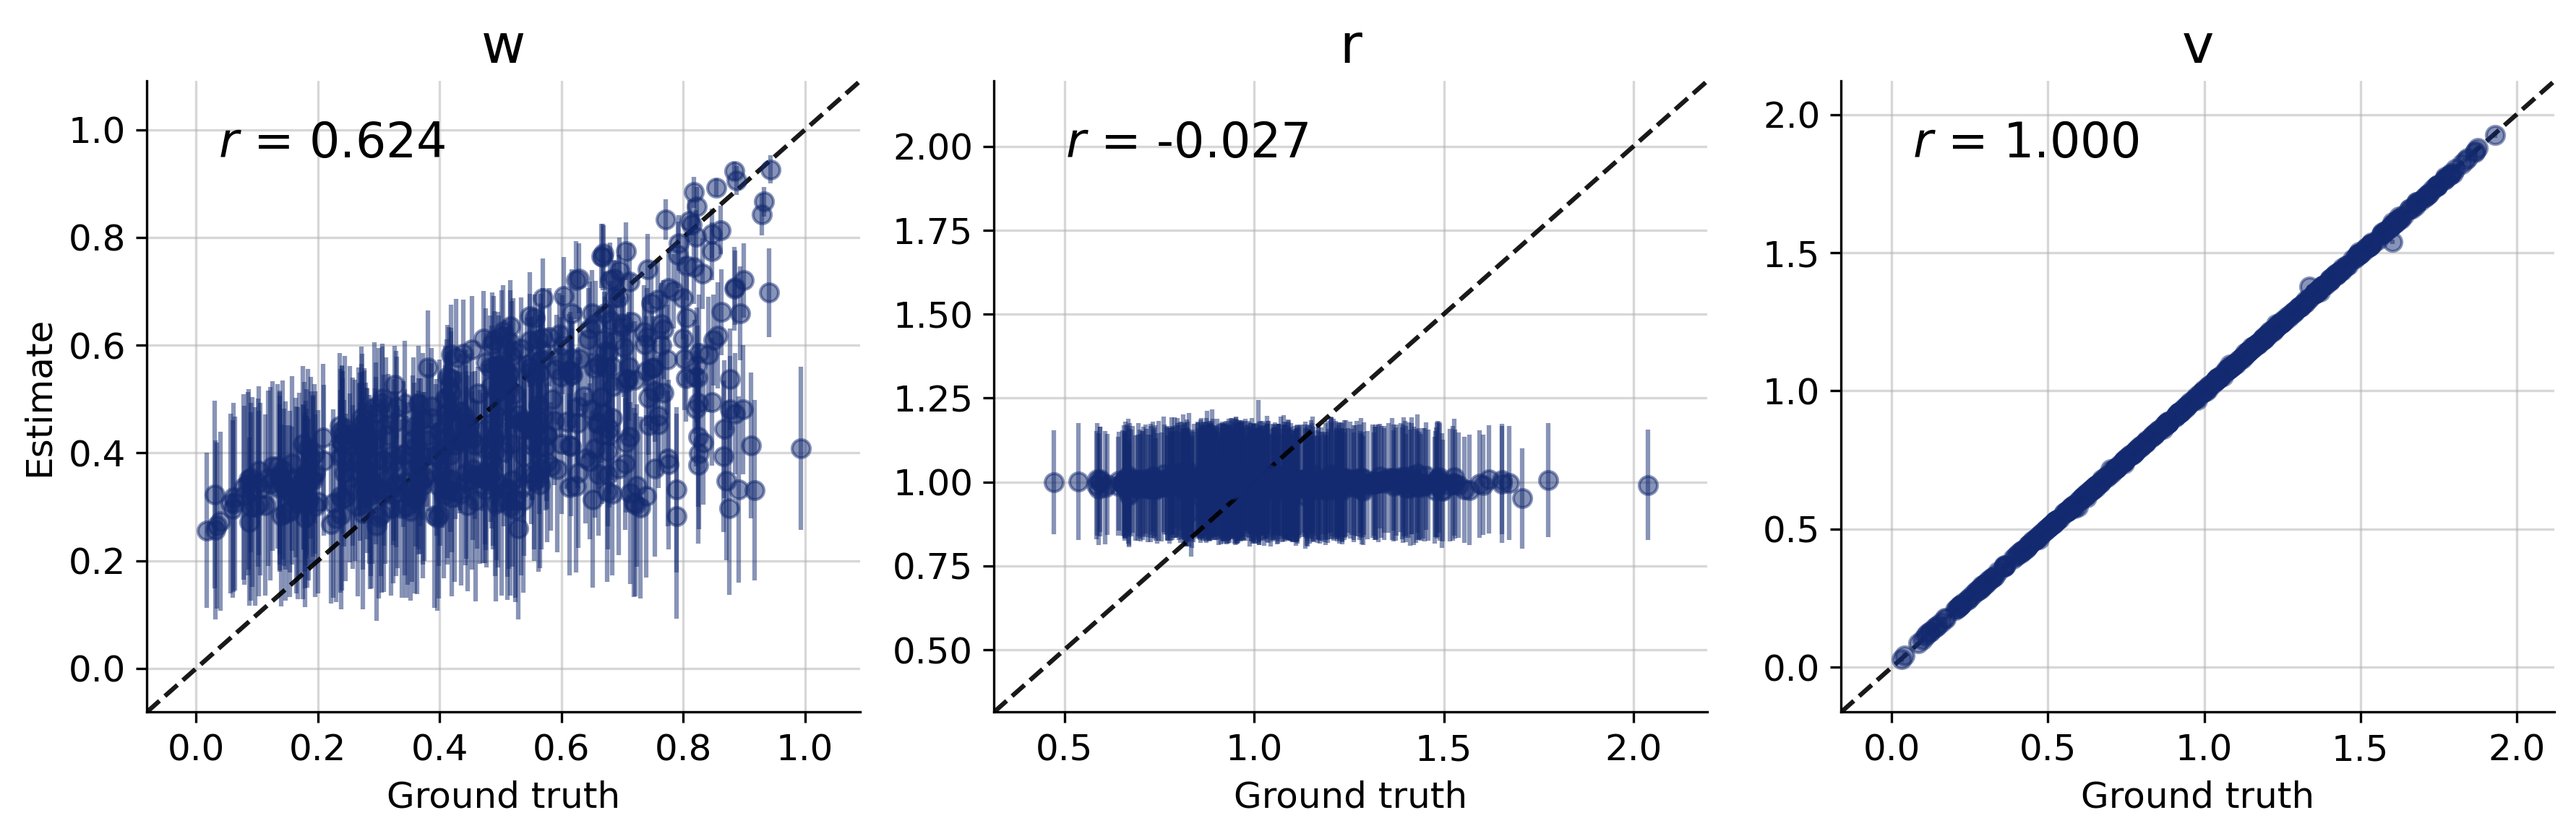
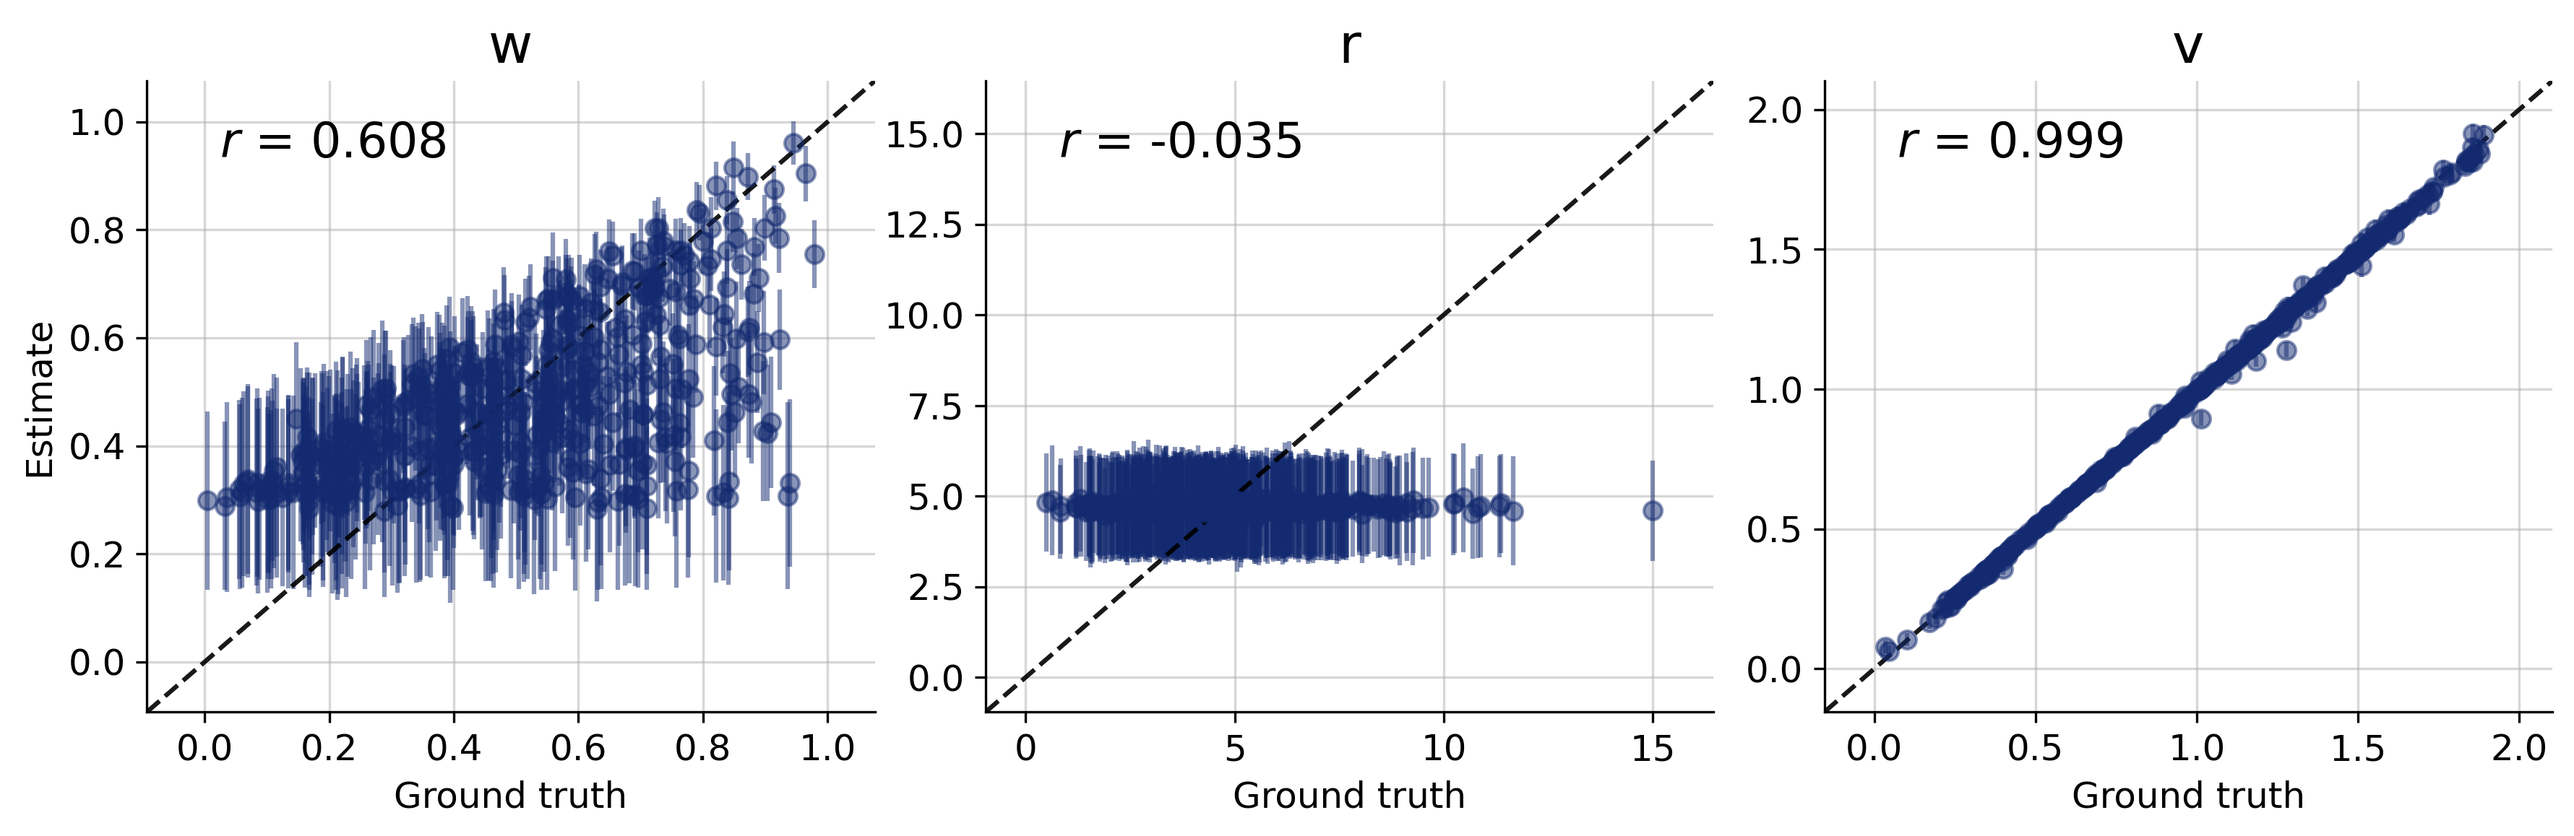
Update results

diff --git a/togetherflow/src/simulator.py b/togetherflow/src/simulator.py
@@ -70,6 +70,9 @@ def simulator_fun(
     positions = np.zeros((num_timesteps, num_agents, 2))
     rotations = np.zeros((num_timesteps, num_agents,))
     neighbors = np.zeros((num_timesteps, num_agents,))
+    distances = np.zeros((num_timesteps, num_agents,))
+    angular_velocities = np.zeros((num_timesteps, num_agents,))
+    neighbor_fluctuations = np.zeros((num_timesteps, num_agents,))
     positions[0] = initial_positions
     rotations[0] = initial_rotations
 
@@ -78,7 +81,7 @@ def simulator_fun(
 
     # Simulation loop
     for t in prange(1, num_timesteps):
-        ps, rs, num_neighbors = combined_influences(
+        ps, rs, num_neighbors, average_dists = combined_influences(
             agent_positions=positions[t - 1],
             agent_rotations=rotations[t - 1],
             beacon_positions=beacon_positions,
@@ -92,14 +95,27 @@ def simulator_fun(
         # Store positions and orientations for each time step
         positions[t] = ps
         rotations[t] = rs
-        neighbors[t] = np.sqrt(num_neighbors)
+        neighbors[t] = num_neighbors
+        distances[t] = average_dists
+        angular_velocities[t] = rs - rotations[t - 1]
+        neighbor_fluctuations[t] = num_neighbors - neighbors[t - 1]
 
     neighbors[0] = neighbors[1]
 
     rotations = rotations[:, :, np.newaxis]
     neighbors = neighbors[:, :, np.newaxis]
+    distances = distances[:, :, np.newaxis]
+    angular_velocities = angular_velocities[:, :, np.newaxis]
+    neighbor_fluctuations = neighbor_fluctuations[:, :, np.newaxis]
 
-    return np.concatenate((positions, rotations, neighbors), axis=-1)
+    return np.concatenate((
+        positions,
+        rotations,
+        neighbors,
+        distances,
+        angular_velocities,
+        neighbor_fluctuations
+    ), axis=-1)
 
 
 class TogetherFlowSimulator:
@@ -160,10 +176,16 @@ class TogetherFlowSimulator:
             positions = samples[:,:,:,0:2].reshape((B, T, A*2))
             rotations = samples[:,:,:,2].reshape((B, T, A))
             neighbors = samples[:,:,:,3].reshape((B, T, A))
+            distances = samples[:,:,:,4].reshape((B, T, A))
+            angular_velocities = samples[:,:,:,5].reshape((B, T, A))
+            neighbor_fluctuations = samples[:,:,:,6].reshape((B, T, A))
         else:
             positions = samples[:,:,:,0:2]
             rotations = samples[:,:,:,2][..., None]
             neighbors = samples[:,:,:,3][..., None]
+            distances = samples[:,:,:,4][..., None]
+            angular_velocities = samples[:,:,:,5][..., None]
+            neighbor_fluctuations = samples[:,:,:,6][..., None]
 
         return dict(
             w = thetas[:,0][..., None],
@@ -171,5 +193,8 @@ class TogetherFlowSimulator:
             v = thetas[:,2][..., None],
             positions = positions,
             rotations = rotations,
-            neighbors = neighbors
+            neighbors = neighbors,
+            distances = distances,
+            angular_velocities = angular_velocities,
+            neighbor_fluctuations = neighbor_fluctuations
         )

diff --git a/togetherflow/src/influences.py b/togetherflow/src/influences.py
@@ -161,10 +161,11 @@ def combined_influences(
     new_agent_positions = np.zeros((num_agents, 2))
     new_agent_rotations = np.zeros((num_agents,))
     num_neighbors = np.zeros((num_agents,))
+    average_dists = np.zeros((num_agents,))
 
     for i in range(num_agents):
 
-        num_neighbors[i] = count_neighbors(agent_positions[i], agent_positions)
+        num_neighbors[i], average_dists[i] = count_neighbors(agent_positions[i], agent_positions)
 
         # Generate the ddm vector for the agent based on its closest beacon
         distance_to_beacon = []
@@ -208,4 +209,4 @@ def combined_influences(
 
         new_agent_positions[i] = bound_agent_position(new_agent_positions[i], room_size=room_size)
 
-    return new_agent_positions, new_agent_rotations, num_neighbors
+    return new_agent_positions, new_agent_rotations, num_neighbors, average_dists

diff --git a/togetherflow/src/utils.py b/togetherflow/src/utils.py
@@ -23,6 +23,7 @@ def count_neighbors(self_position, other_positions, sensing_radius=1.5):
     """
 
     num_neighbors = 0
+    distances = []
 
     for i in range(len(other_positions)):
         dx = other_positions[i, 0] - self_position[0]
@@ -30,9 +31,12 @@ def count_neighbors(self_position, other_positions, sensing_radius=1.5):
         d = (dx ** 2 + dy ** 2) ** 0.5
 
         if d <= sensing_radius and d > 0:
+            distances.append(d)
             num_neighbors += 1
 
-    return num_neighbors
+    average_distance = np.mean(np.array(distances)) if len(distances) > 0.0 else 0.0
+
+    return num_neighbors, average_distance
 
 
 @njit

diff --git a/togetherflow/experiments/tflow_complete_pooling.py b/togetherflow/experiments/tflow_complete_pooling.py
@@ -44,7 +44,7 @@ if __name__ == "__main__":
         bf.adapters.Adapter()
         .convert_dtype("float64", "float32")
         .concatenate(['w', 'r', 'v'], into="inference_variables")
-        .concatenate(["positions", "rotations", "neighbors"], into="summary_variables", axis=-1)
+        .concatenate(["positions", "rotations", "neighbors", "distances"], into="summary_variables", axis=-1)
     )
 
     if debug:
@@ -117,7 +117,7 @@ if __name__ == "__main__":
         data=training_set,
         validation_data=validation_set,
         batch_size=32,
-        epochs=100
+        epochs=10
     )
 
     # Diagnostics
